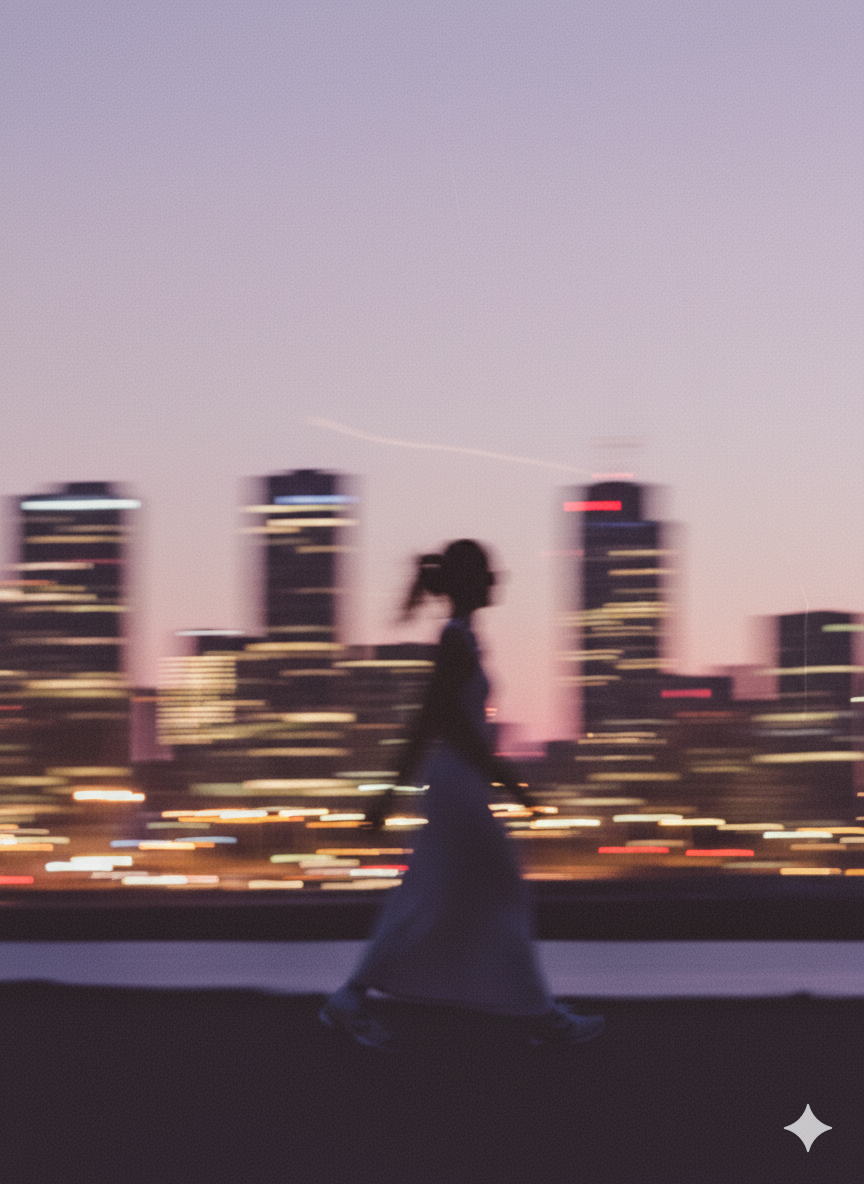
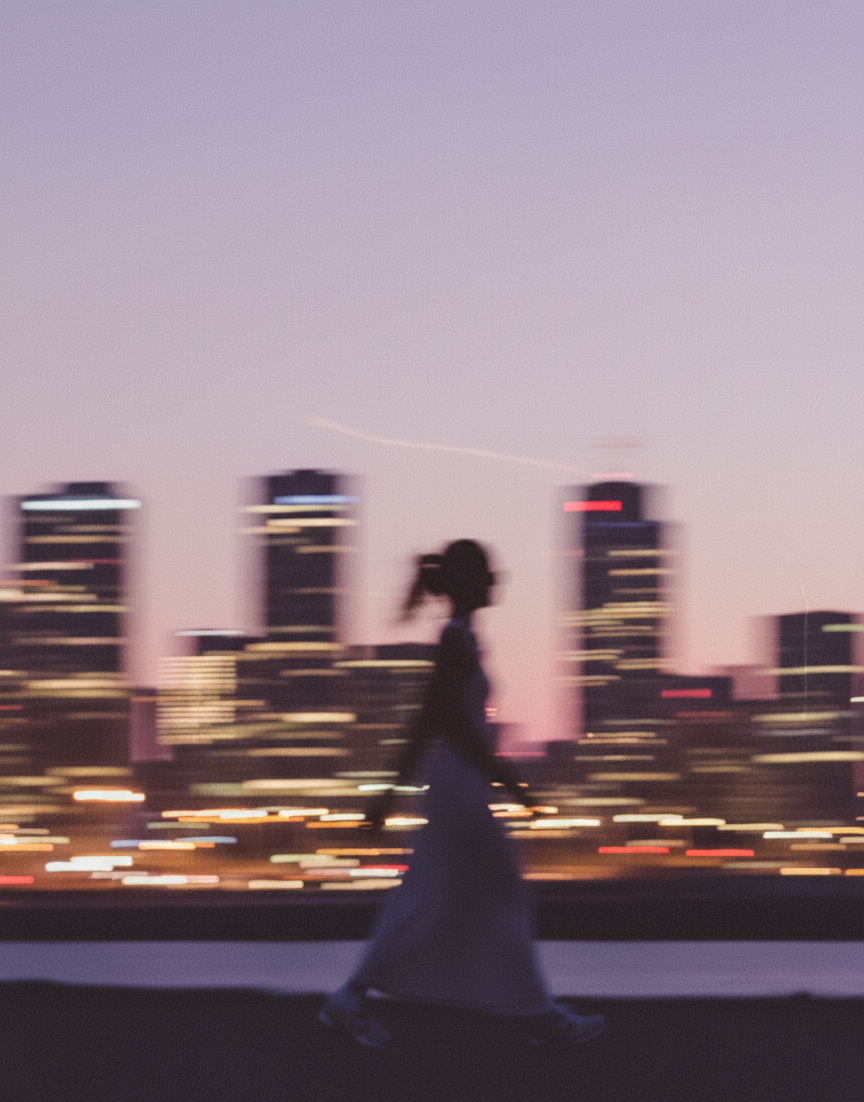
Fixed image landing page and font type title

Changed region(s): [[0.0, 0.3702, 1.0, 0.9873]]

diff --git a/index.html b/index.html
@@ -164,7 +164,8 @@ body{
   .split-tabs a.active{
     border:none;margin-left:0;
     width:auto !important;
-    background:var(--navy);color:var(--sky);
+    background:var(--navy) !important;color:var(--sky) !important;
+    font-weight:700;
   }
 }
 @media (max-width:480px){
@@ -1046,7 +1047,7 @@ body{
     <!-- TOP: logo + wordmark -->
     <div class="sidebar-top">
       <img src="assets/logo-csm-v2.png" alt="MARA" class="sidebar-logo" />
-      <div class="sidebar-wordmark">
+      <div class="sidebar-wordmark" style="font-family: 'Inter Tight'">
         Concept Studio MARA
       </div>
     </div>
